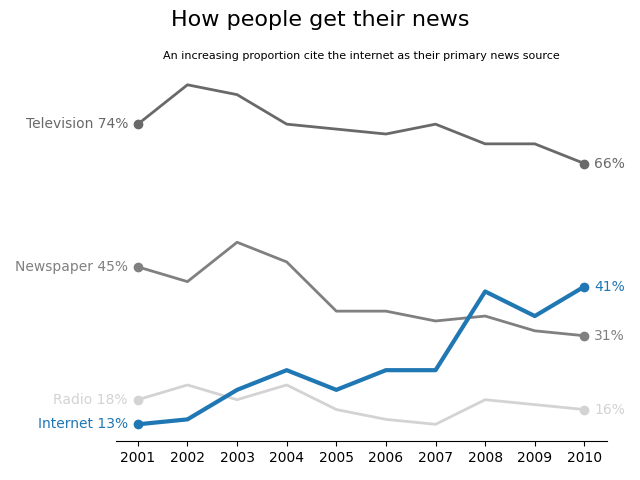
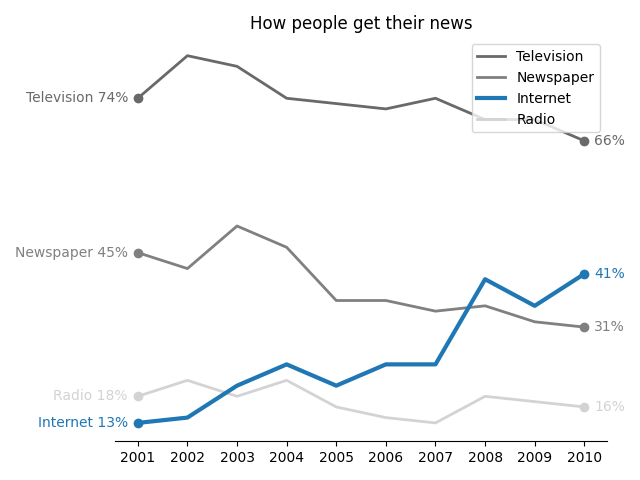
sol

diff --git a/homework/pregunta_01.py b/homework/pregunta_01.py
@@ -16,3 +16,89 @@ def pregunta_01():
     El gráfico debe salvarse al archivo `files/plots/news.png`.
 
     """
+    import pandas as pd
+    import matplotlib.pyplot as plt
+    import os
+    plt.figure()
+    df = pd.read_csv('files/input/news.csv', index_col=0)
+
+    colors = {
+        'Television': 'dimgray',
+        'Newspaper': 'grey',
+        'Internet': 'tab:blue',
+        'Radio': 'lightgrey'
+    }
+
+    zorder = {
+        'Television': 1,
+        'Newspaper': 1,
+        'Internet': 2,
+        'Radio': 1
+
+    }
+
+    linewidths = {
+        'Television': 2,
+        'Newspaper': 2,
+        'Internet': 3,
+        'Radio': 2,
+    }
+
+    for col in df.columns:
+        plt.plot(df[col],
+                color = colors[col],
+                zorder = zorder[col],
+                linewidth = linewidths[col],
+                label=col)
+    plt.title("How people get their news")
+    plt.legend(loc='upper right')
+    plt.gca().spines['top'].set_visible(False)
+    plt.gca().spines['left'].set_visible(False)
+    plt.gca().spines['right'].set_visible(False)
+    plt.gca().axes.get_yaxis().set_visible(False)
+
+
+    for col in df.columns:
+        first_year = df.index[0]
+        plt.scatter(
+            x = first_year,
+            y = df[col][first_year],
+            color = colors[col],
+            zorder = zorder[col],
+        )
+        last_year = df.index[-1]
+
+        plt.scatter(
+            x = last_year,
+            y = df[col][last_year],
+            color = colors[col],
+        )
+        plt.text(
+            first_year - 0.2,
+            df[col][first_year],
+            col + " " + str(df[col][first_year]) + "%",
+            ha = 'right',
+            va = 'center',
+            color = colors[col]
+        )
+
+        plt.text(
+            last_year + 0.2, 
+            df[col][last_year],
+            str(df[col][last_year]) + "%",
+            ha = 'left',
+            va = 'center',
+            color = colors[col]
+        )
+
+    plt.xticks(
+        ticks = df.index,
+        labels=df.index,
+        ha = 'center'
+    )
+    os.makedirs('files/plots', exist_ok=True)
+    plt.tight_layout()
+    plt.savefig("files/plots/news.png", dpi=300, bbox_inches='tight')
+    plt.show()
+
+pregunta_01()
